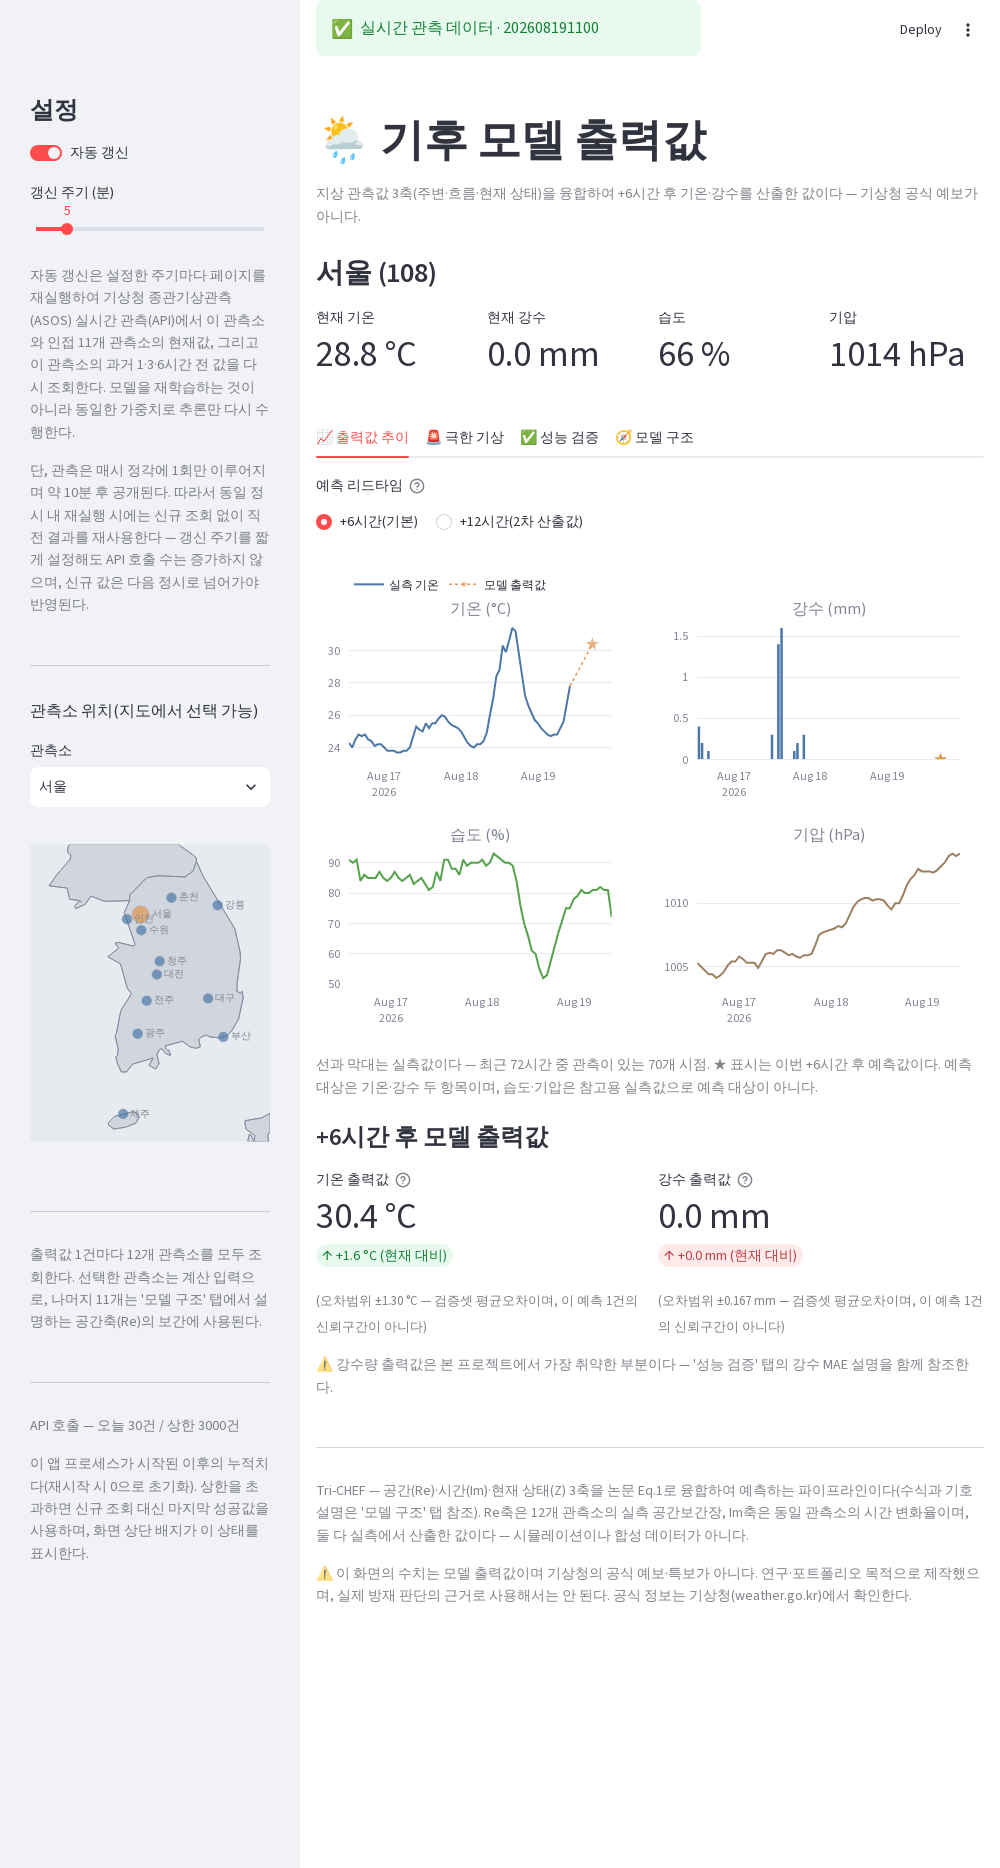
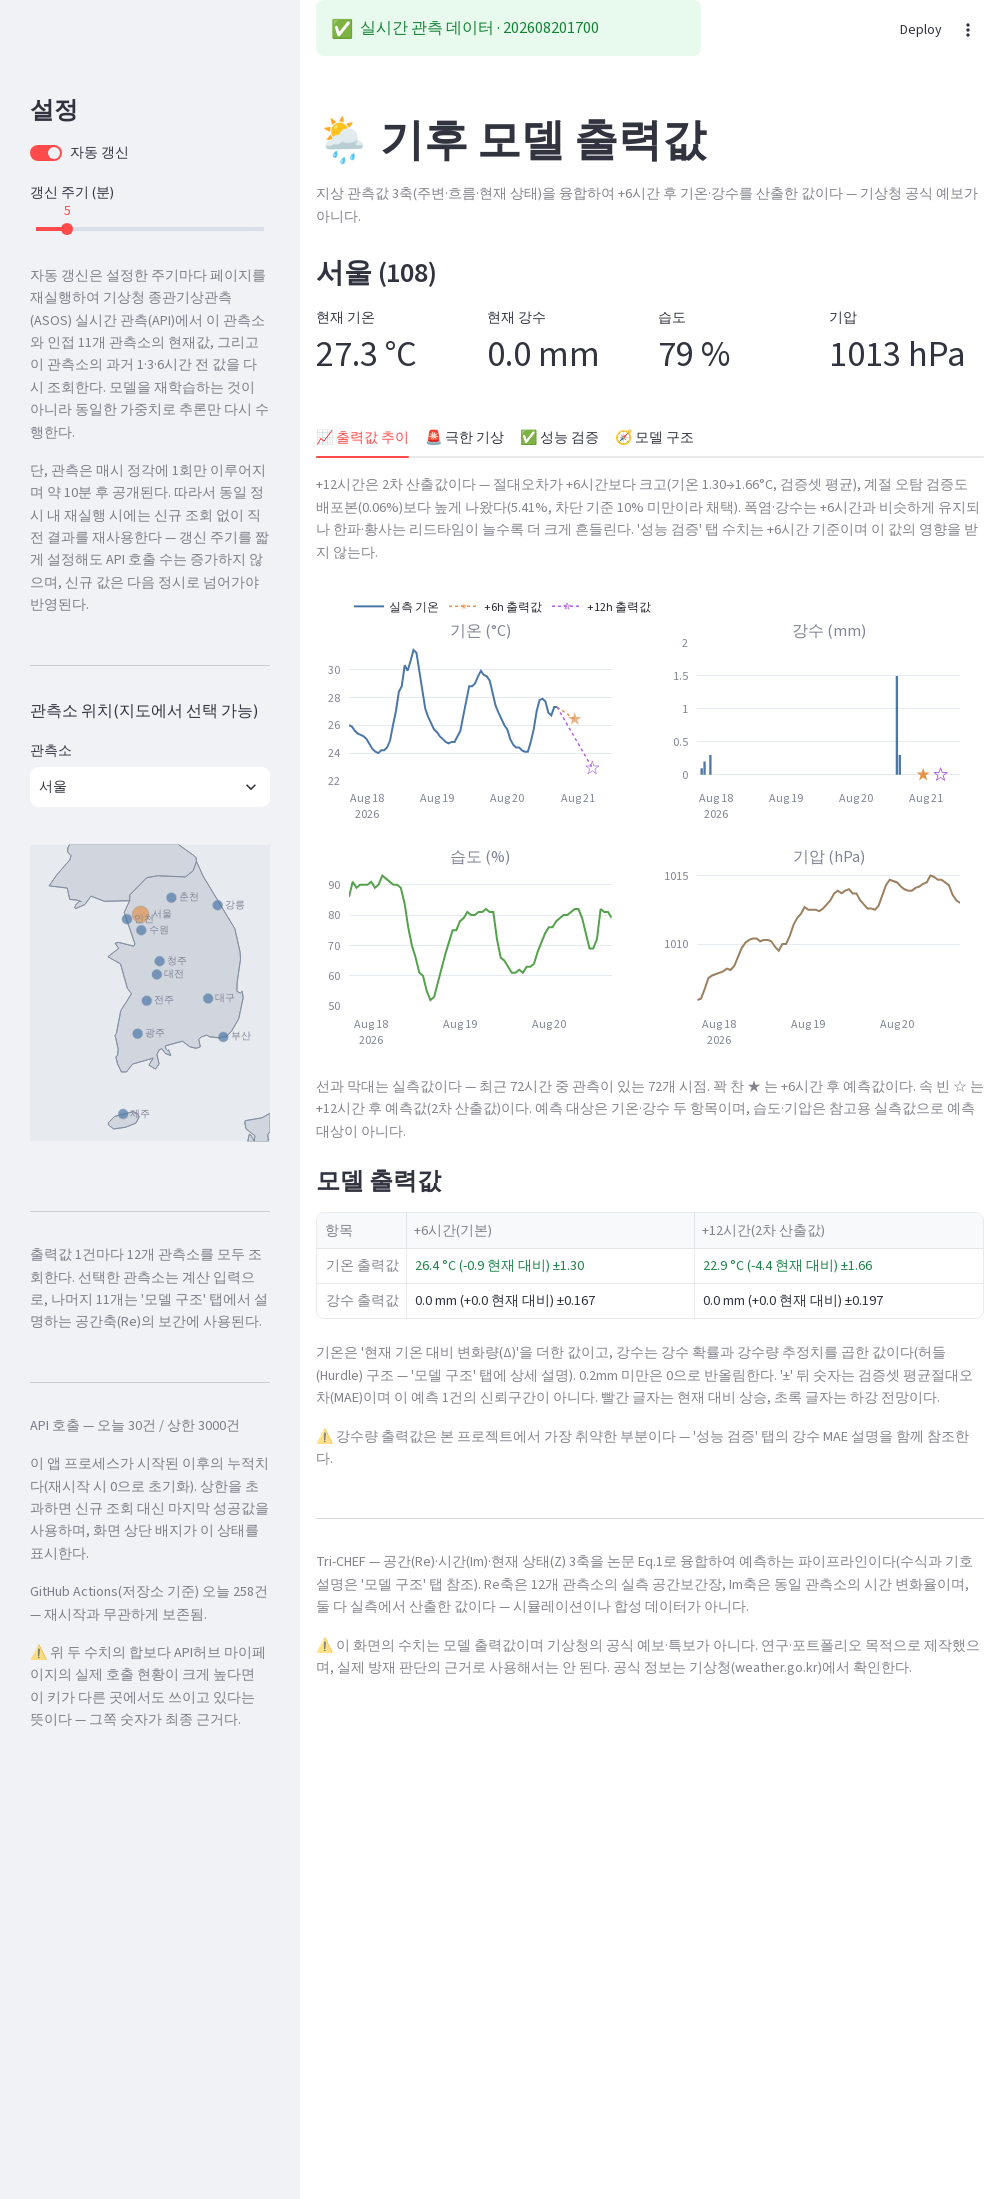
적중률 문구 모순 수정, 출력값 추이 탭 문서·스크린샷 갱신
성능 검증 탭에서 "아직 실측과 대조된 출력값이 없다" 바로 아래에 "저장소
스냅샷 68건"이 나와 서로 어긋나 보였다. 위쪽은 현재 관측소 + 현재
체크포인트로 좁혀 세고 아래쪽은 전 관측소·전 모델을 합산해 집계 범위가
다른 것인데 그 이유를 밝히지 않아 모순으로 읽혔다. 왜 0인지를 문구에
명시했다.

README 의 출력값 추이 탭 설명이 리드타임 토글 제거 이전 내용이라 +6h/+12h
동시 표시 구조로 다시 썼다. 두 점선이 각자 마지막 실측점에서 뻗는 이유
(+12h 는 +6h 를 이어받아 계산하는 것이 아니라 독립 체크포인트의 출력)도
함께 적었다. 워커 시크릿이 wrangler 4.x 에서 런타임에 연결되지 않던
문제도 기록했다 — CLI 가 "성공"이라고 말하는 것과 설정이 실제로 반영되는
것은 별개다.

docs/images/tab-trend.png 는 개편 이전 화면이라 현재 UI 로 다시 찍었다.

Claude-Session: https://claude.ai/code/session_01Ns2exaniH8NC9pf8atNHJN

diff --git a/app.py b/app.py
@@ -1515,8 +1515,18 @@ with tab_perf:
     # 섞이지 않고 지금 배포된 모델의 예측만 집계한다(accuracy.stats 참고).
     acc = accuracy.stats(station=stn, model_id=ckpt_fingerprint())
     if acc["cum_n"] == 0:
-        st.caption("아직 실측과 대조된 출력값이 없다 — "
-                   "`python backtest_accuracy.py`로 과거 데이터를 먼저 채울 수 있다.")
+        # 아래 '로그 구성' 줄은 로그 전체(전 관측소·전 모델)를 세는데 이 지표는
+        # 현재 관측소 + 현재 체크포인트로만 좁혀 센다. 그래서 "대조된 것이
+        # 없다"와 "스냅샷 N건"이 한 화면에 동시에 뜰 수 있다 — 모순이 아니라
+        # 집계 범위가 다른 것이므로, 왜 0인지를 문구에 밝힌다(2026-08-20 수정.
+        # 그 전에는 이유 없이 "없다"고만 해서 바로 아래 줄과 어긋나 보였다).
+        st.caption(
+            f"현재 배포 중인 체크포인트로 {result['station_name']}에서 대조 완료된 "
+            "출력값이 아직 없다 — 이 지표는 체크포인트를 교체하면 0에서 다시 "
+            "시작한다(옛 모델의 기록과 섞으면 어느 모델의 성능도 아닌 값이 "
+            "되기 때문이다). 아래 '로그 구성'의 건수는 전 관측소·전 모델을 "
+            "합친 값이라 이 숫자와 범위가 다르다."
+        )
     else:
         a1, a2, a3, a4 = st.columns(4)
         a1.metric("누적 기온 적중률",
